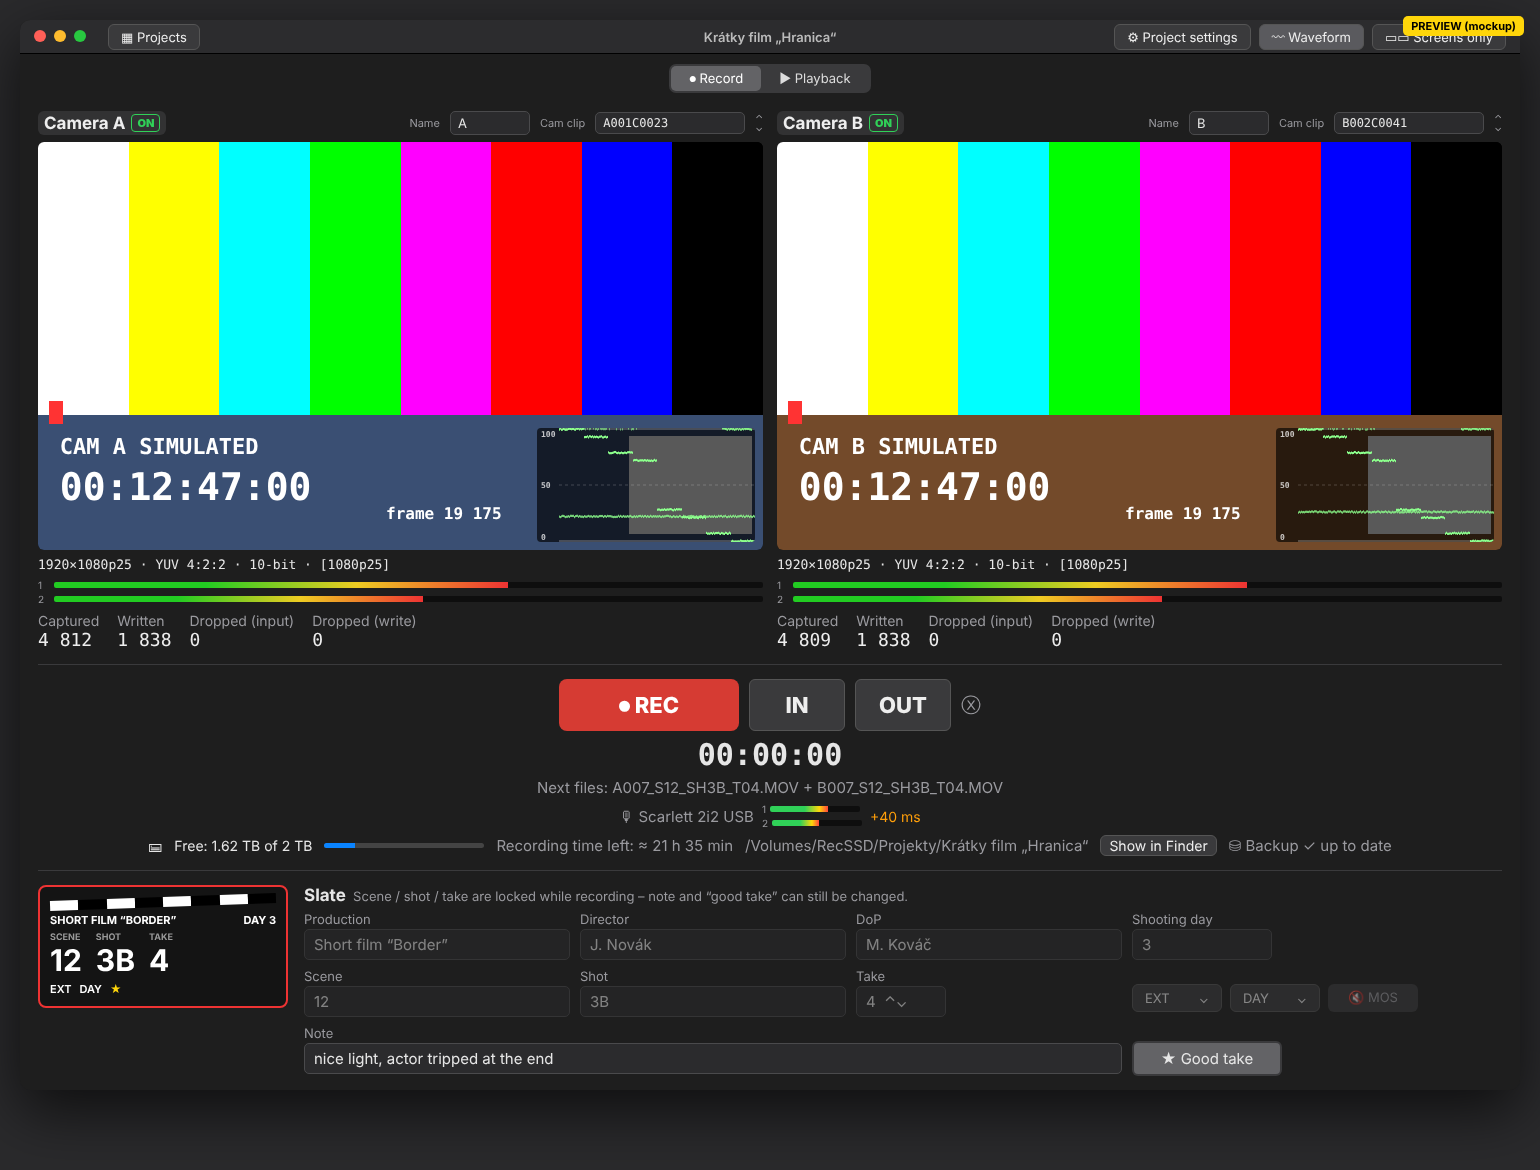
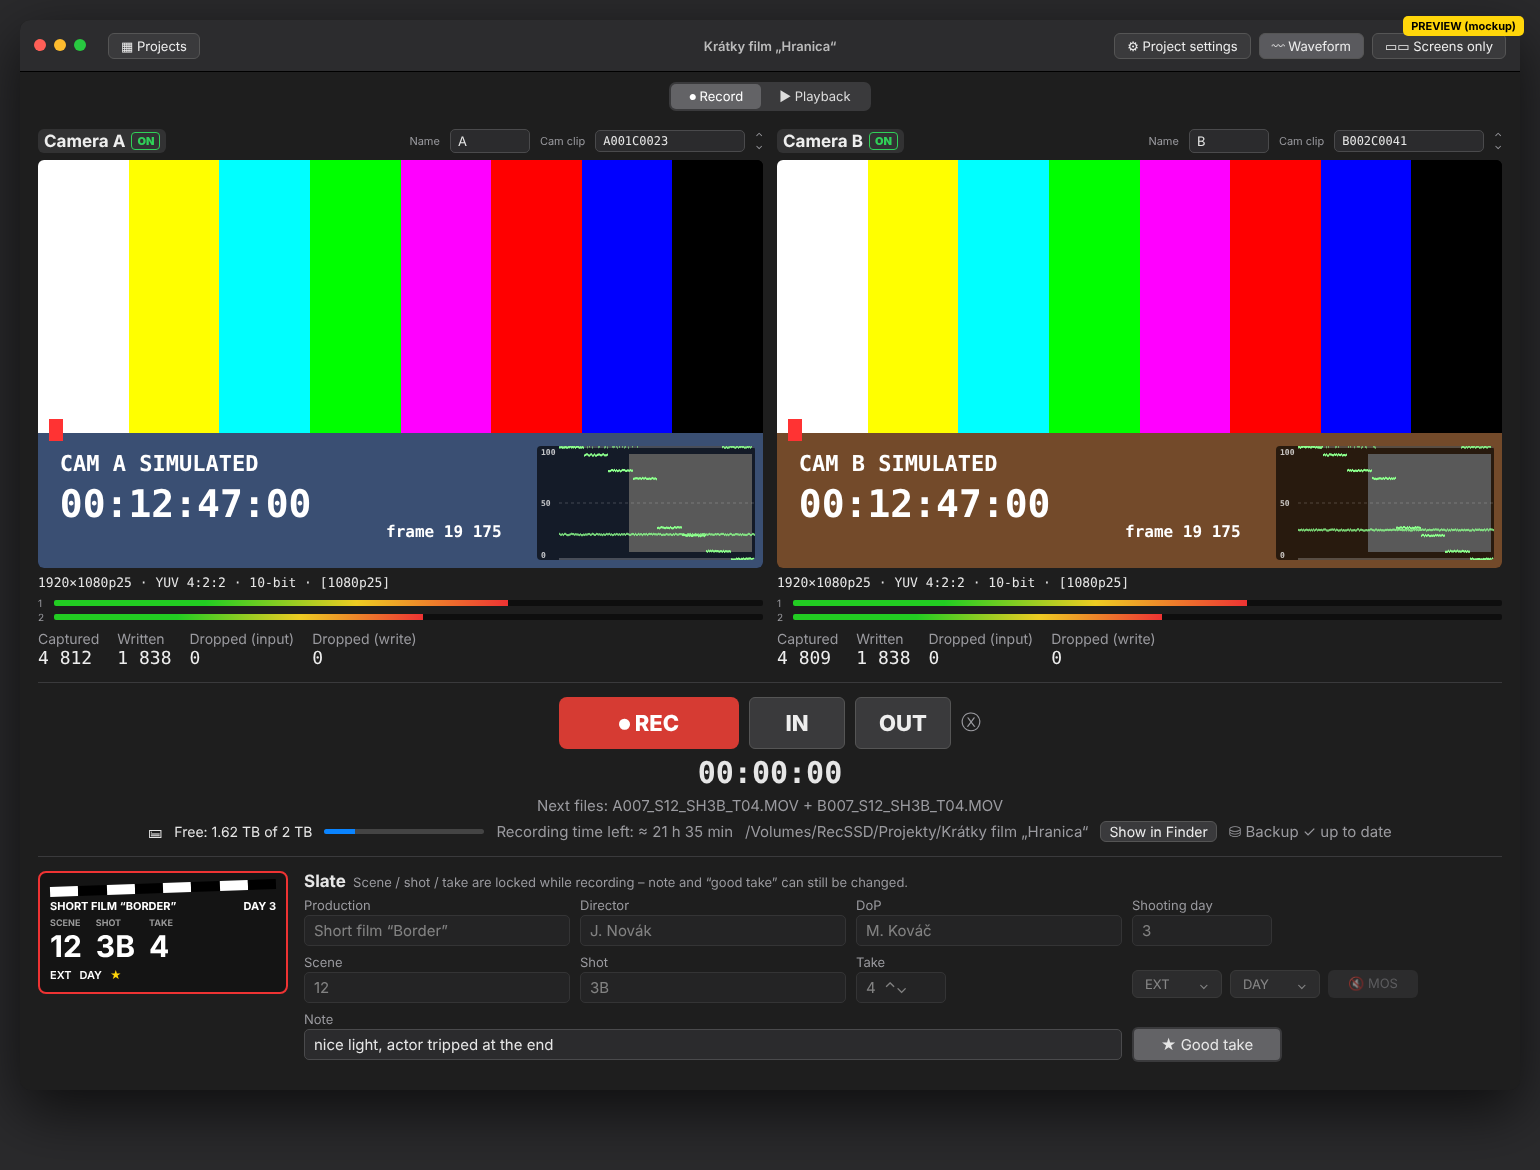
Record: no separate audio interface line with 'Audio interface only' (meters are under the cameras)
Claude-Session: https://claude.ai/code/session_01SjxyfTkJQH7RKsrkA8EJQA

diff --git a/DualCamRecorder/Views/RecordView.swift b/DualCamRecorder/Views/RecordView.swift
@@ -163,7 +163,9 @@ struct RecordView: View {
         VStack(spacing: 6) {
             Text(takeLabel).font(.body).foregroundStyle(.secondary)
                 .multilineTextAlignment(.center)
-            if settings.audioInterfaceMode != .off {
+            // "Interface + cameras": the camera meters show the SDI sound, so the interface gets its own line.
+            // ("Interface only" shows the interface under each camera instead.)
+            if settings.audioInterfaceMode == .withSDI {
                 AudioInterfaceStatus(audio: controller.audioInterface, delayMs: settings.audioInterfaceDelayMs)
                     .font(.callout)
             }

diff --git a/README.md b/README.md
@@ -159,7 +159,7 @@ Rozhranie aplikácie je **v angličtine** (Record / Playback / Slate …); tento
   tlesknutie počuť skôr, ako ho vidno), záporná ho posunie skôr. 1 snímka = 40 ms pri 25p. Platí od ďalšieho záberu.
 - Pri *Audio interface only* je pod obrazom každej kamery namiesto meradla zvuku zo SDI meradlo kanálov
   rozhrania (1, 2 …) – to, čo sa naozaj zapisuje do súboru.
-- Record ukazuje meradlo každého kanála; keď rozhranie chýba, svieti červené *Audio interface not connected*
+- Pri *Audio interface + cameras* je meradlo rozhrania v riadku pod názvami súborov; keď rozhranie chýba, svieti červené *Audio interface not connected*
   (záber sa nahrá len so zvukom z kamier). Po odpojení a pripojení sa rozhranie samo znova spustí.
 - Pri prvom použití sa macOS opýta na prístup k mikrofónu (audio vstupom) – treba povoliť.
 
